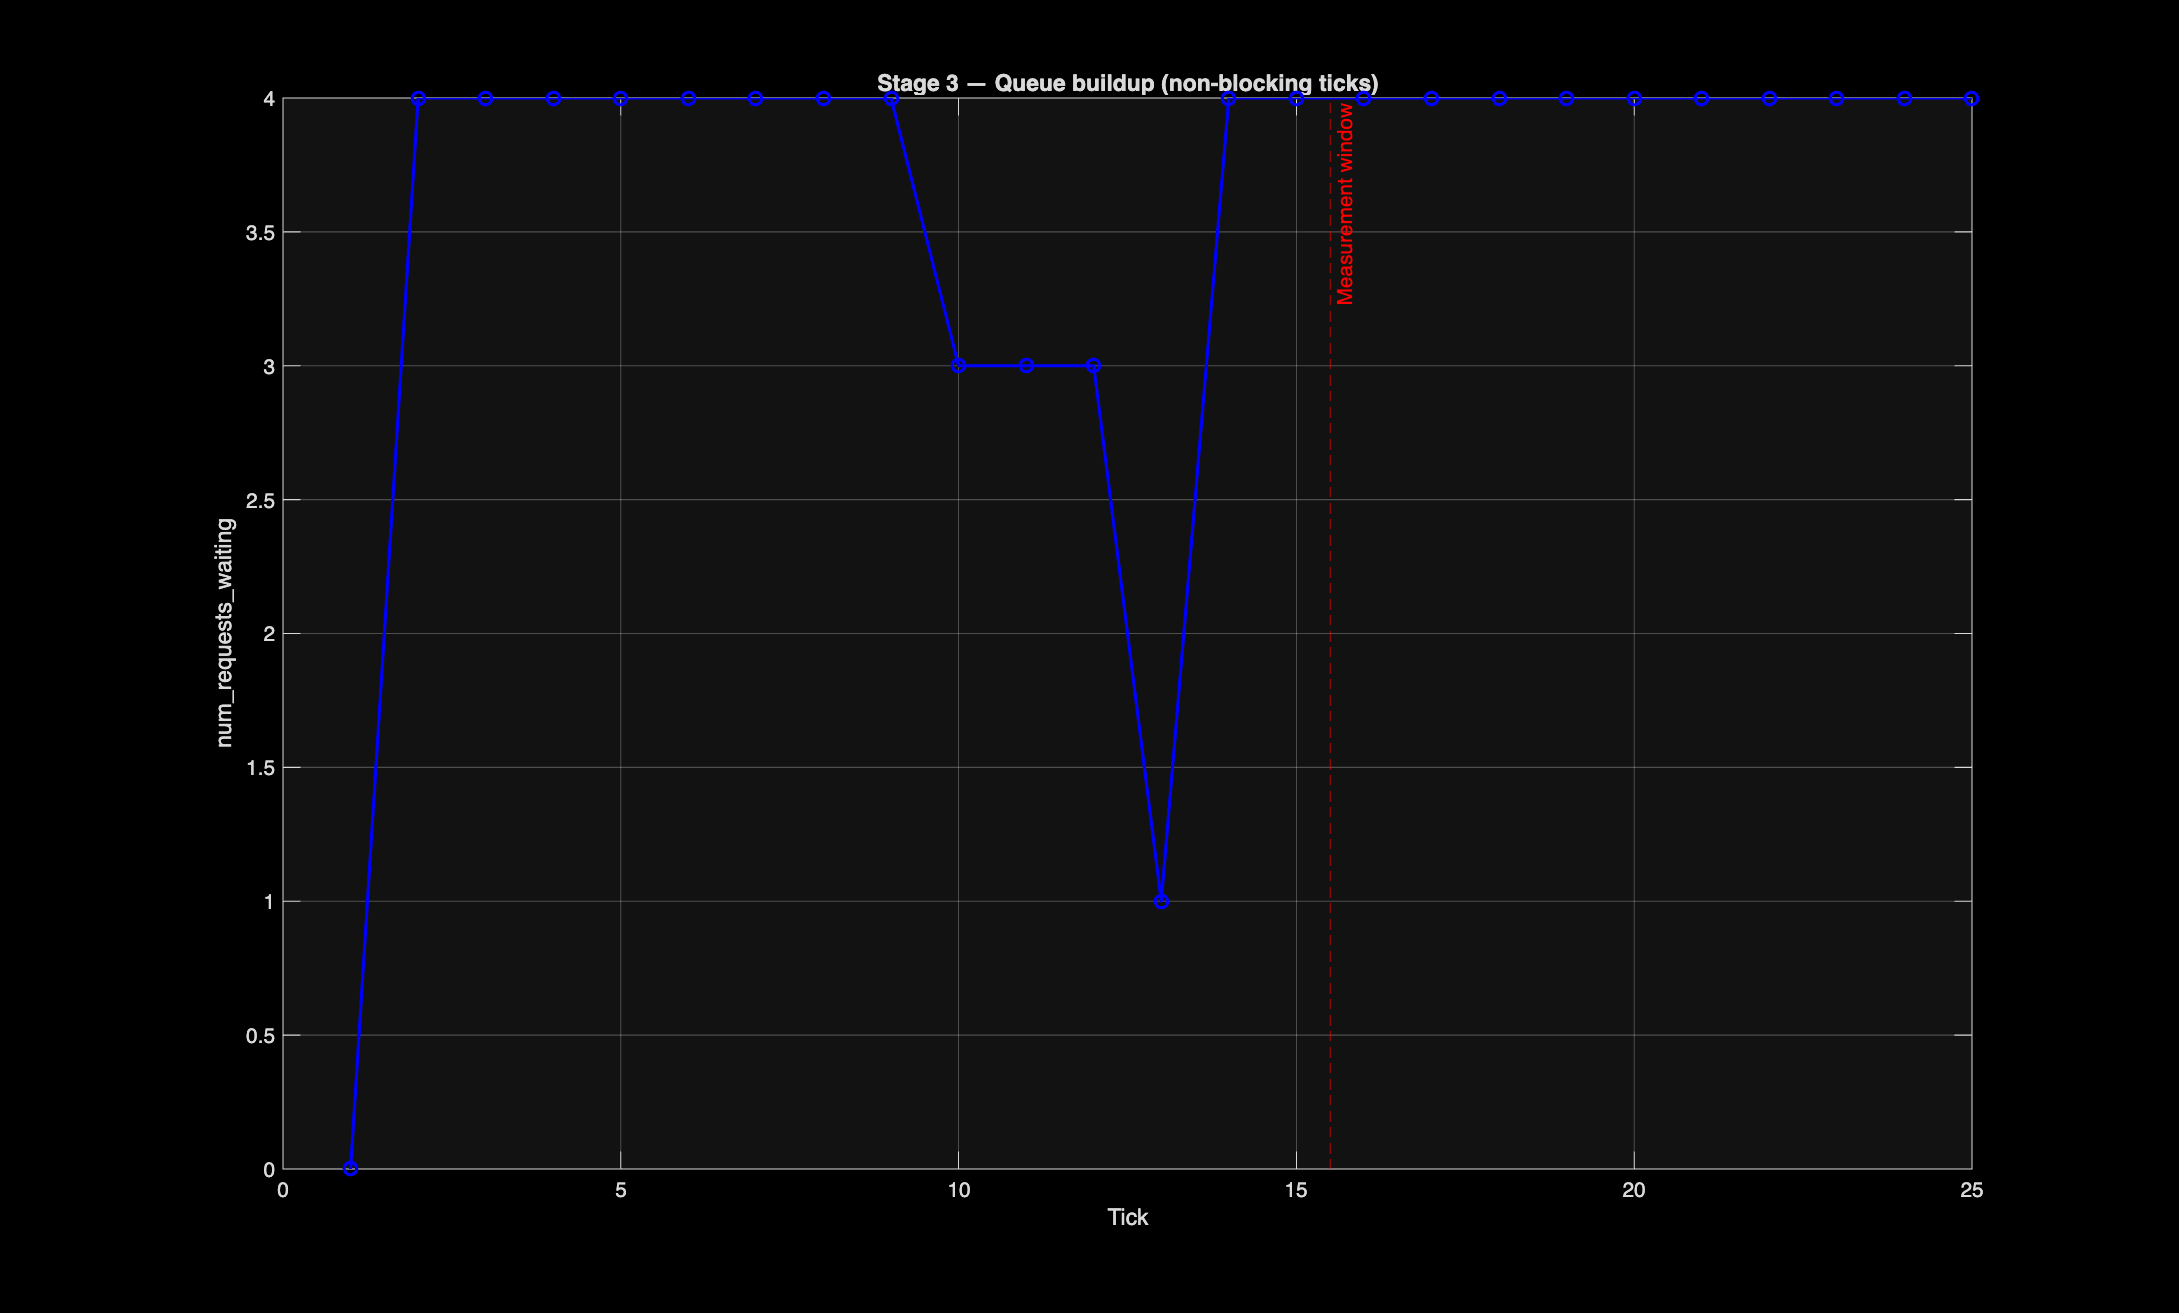
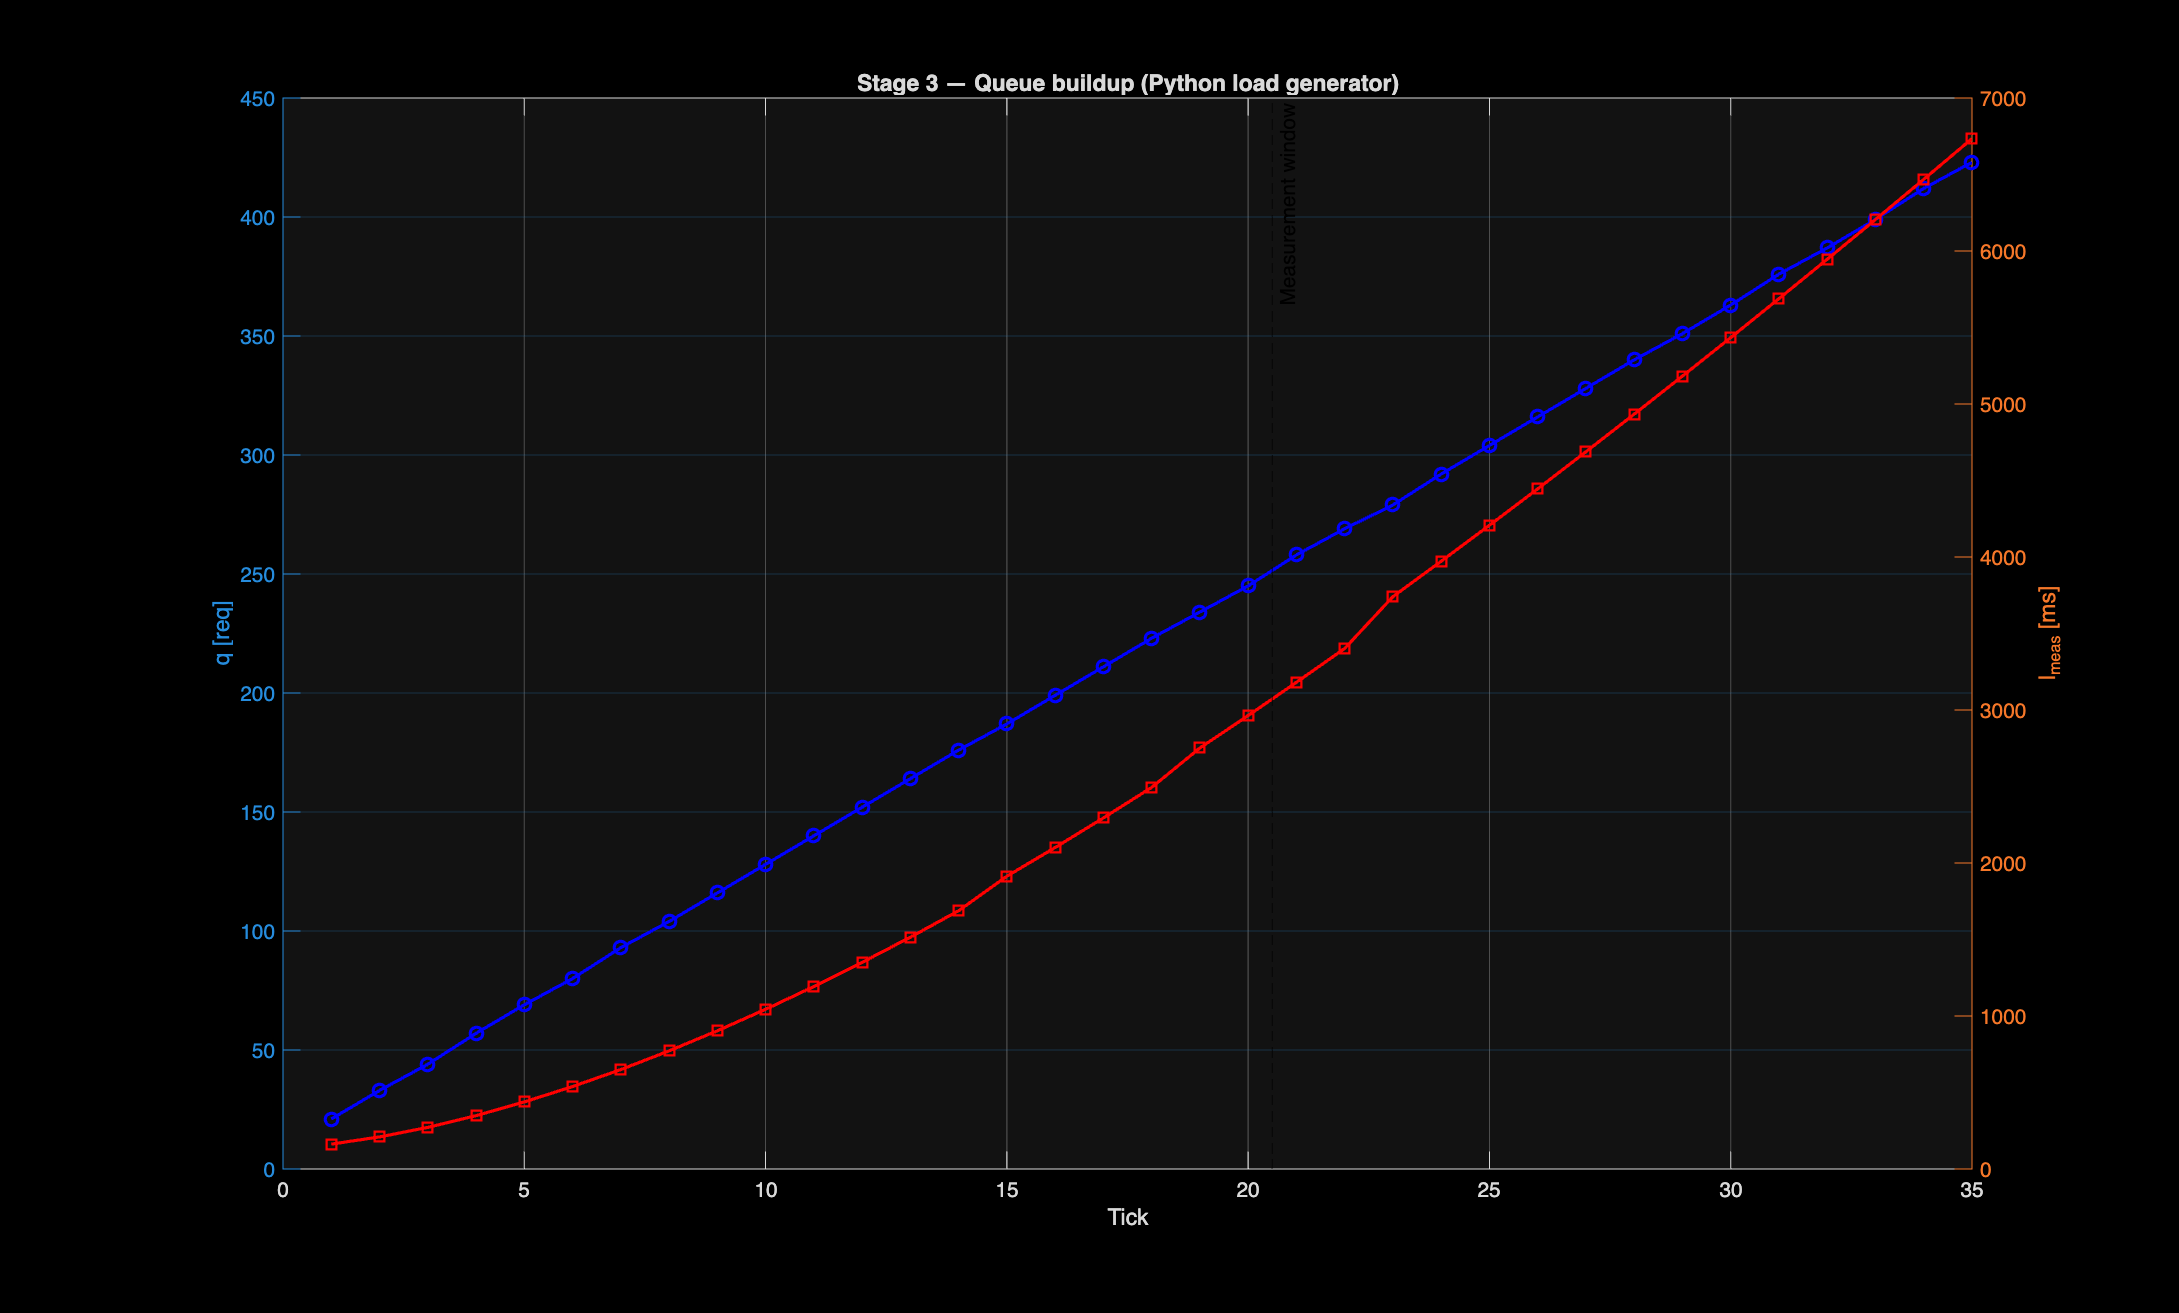
chapter_5: fix drain_queue + per-tick latency measurement

diff --git a/chapter_5/identification/characterise_plant.m b/chapter_5/identification/characterise_plant.m
@@ -215,9 +215,10 @@ for tick = 1:n3
     if elapsed < cfg.dt; pause(cfg.dt - elapsed); end
 end
 
-% Stop load generator
+% Stop load generator and drain queue before Stage 4
 stop_load_gen(pid_file);
-fprintf('[stage3] Load generator stopped.\n\n');
+drain_queue(cfg.metrics_url);
+fprintf('[stage3] Load generator stopped and queue drained.\n\n');
 
 meas3 = (cfg.build_ticks+1):n3;
 q_ss3 = mean(q_log3(meas3));
@@ -298,7 +299,7 @@ for li = 1:n_lam
     end
 
     stop_load_gen(pid_file);
-    pause(3);  % drain queue before next lambda
+    drain_queue(cfg.metrics_url);  % poll until running=0 AND waiting=0
 
     meas4 = (cfg.settle_ticks+1):n4;
     env_q(li) = mean(q_all(meas4));
@@ -386,15 +387,54 @@ function v = safe_field(m, field)
 end
 
 function l_ms = get_ttft_mean_ms(m)
-% Compute mean TTFT in ms from vLLM histogram sum/count fields.
-% vllm:time_to_first_token_seconds_sum / _count -> mean in seconds -> *1000 ms
-    s = safe_field(m, 'vllm_time_to_first_token_seconds_sum');
-    c = safe_field(m, 'vllm_time_to_first_token_seconds_count');
-    if c > 0
-        l_ms = (s / c) * 1000;
+% Per-tick mean TTFT using histogram deltas between successive calls.
+%
+% vllm:time_to_first_token_seconds_sum and _count are CUMULATIVE counters.
+% Dividing sum/count gives the all-time average since vLLM started.
+% To get the per-tick mean we track deltas: (Δsum / Δcount) * 1000 ms.
+% On the first call (or after a reset) returns NaN -- no prior baseline.
+    persistent prev_sum prev_count
+    if isempty(prev_sum); prev_sum = 0; prev_count = 0; end
+    curr_sum   = safe_field(m, 'vllm_time_to_first_token_seconds_sum');
+    curr_count = safe_field(m, 'vllm_time_to_first_token_seconds_count');
+    delta_sum   = curr_sum   - prev_sum;
+    delta_count = curr_count - prev_count;
+    prev_sum   = curr_sum;
+    prev_count = curr_count;
+    if delta_count > 0
+        l_ms = (delta_sum / delta_count) * 1000;
     else
         l_ms = NaN;
     end
+end
+
+function drain_queue(metrics_url)
+% Block until vLLM reports both running=0 AND waiting=0.
+% Polls every 0.5s, times out after 60s with a warning.
+    fprintf('  [drain] Waiting for queue to empty...');
+    t0 = tic;
+    while toc(t0) < 60
+        try
+            raw = webread(metrics_url, weboptions('Timeout',3,'ContentType','text'));
+            running = 0; waiting = 0;
+            for line = strsplit(raw, newline)
+                s = strtrim(line{1});
+                if isempty(s)||s(1)=='#'; continue; end
+                c = strtrim(regexprep(s,'\{[^}]*\}',''));
+                p = regexp(c,'\s+','split');
+                if numel(p)<2; continue; end
+                v = str2double(p{2}); if isnan(v); continue; end
+                if contains(p{1},'num_requests_running'); running=running+v; end
+                if contains(p{1},'num_requests_waiting'); waiting=waiting+v; end
+            end
+            if running == 0 && waiting == 0
+                fprintf(' done (%.0fs)  running=%g  waiting=%g\n', toc(t0), running, waiting);
+                return
+            end
+        catch; end
+        pause(0.5);
+    end
+    fprintf(' TIMEOUT after 60s\n');
 end
 
 function stop_load_gen(pid_file)